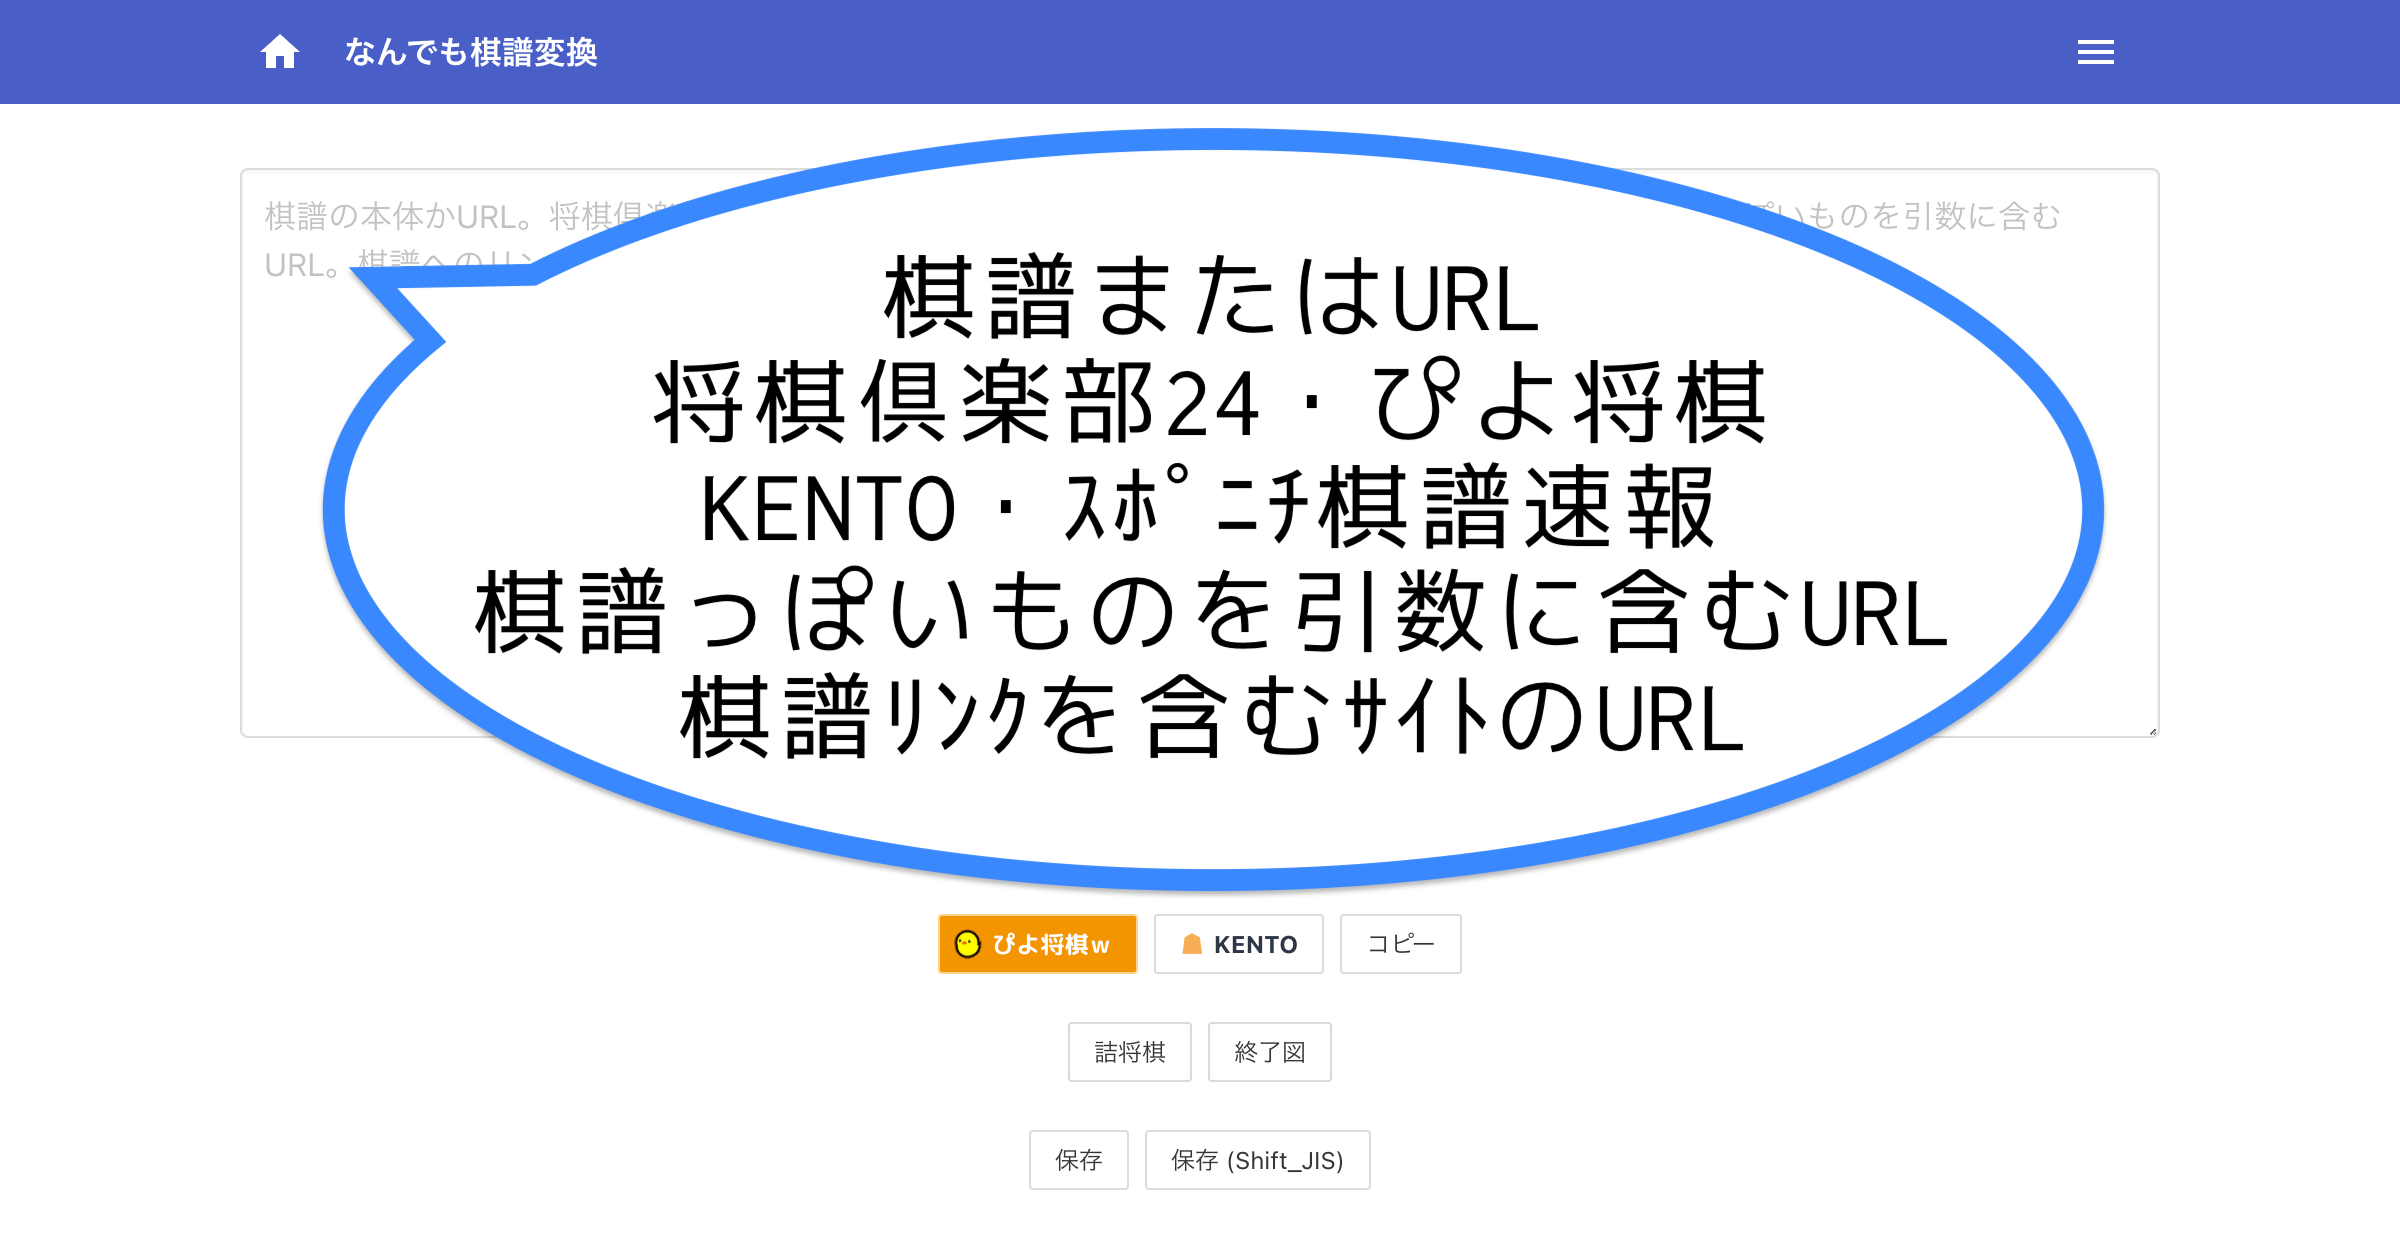
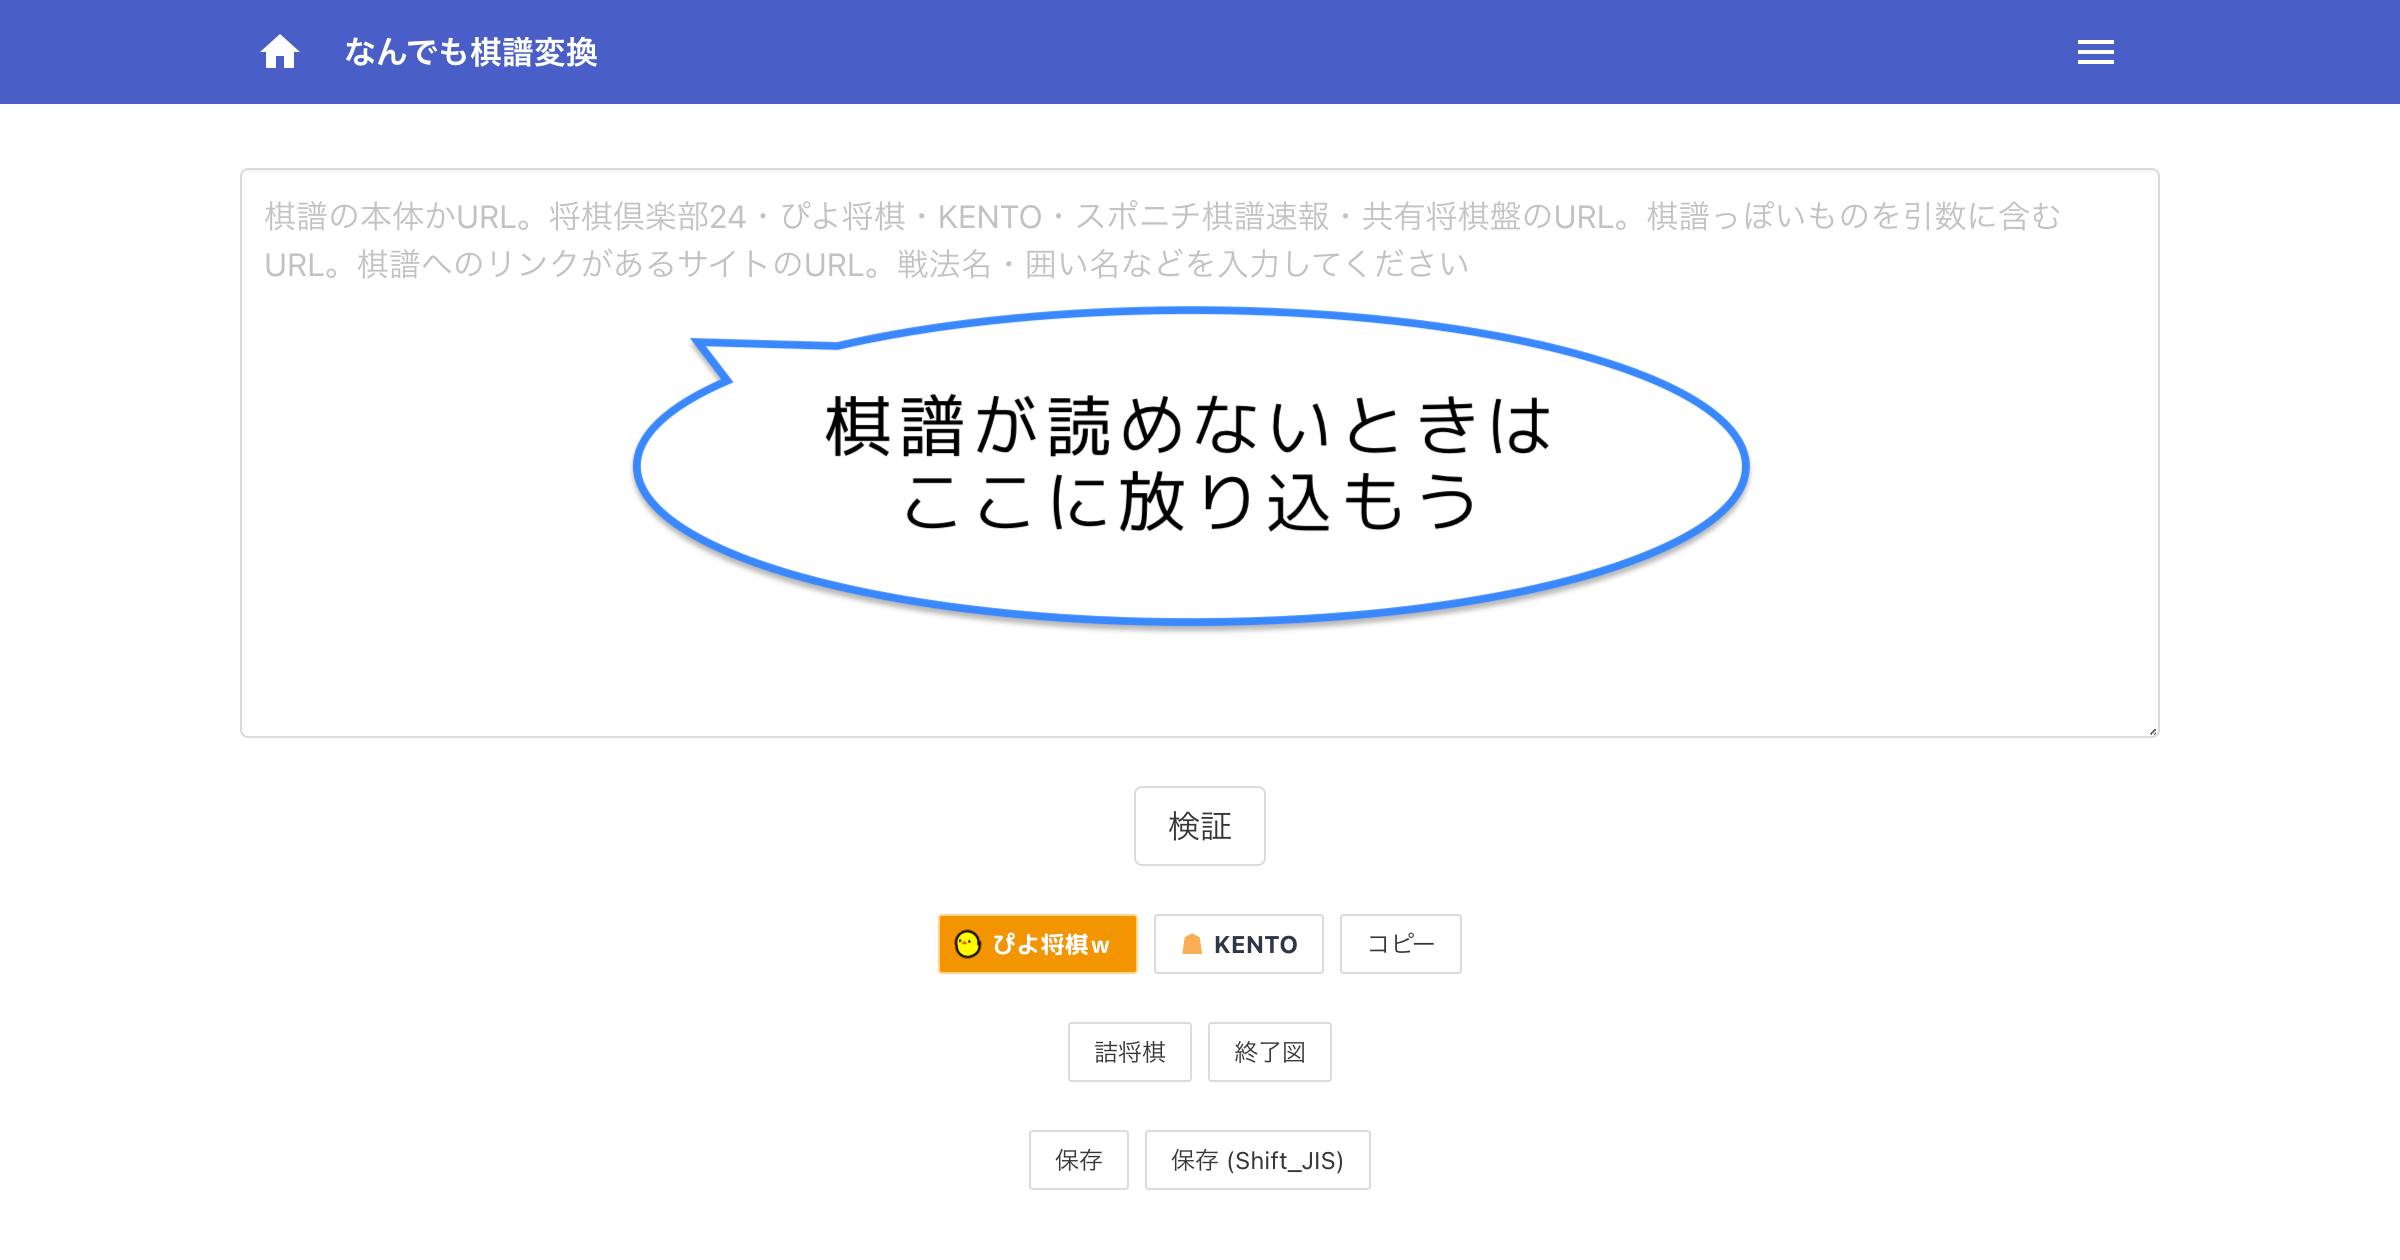
[feat] OGP更新

Changed region(s): [[0.125, 0.0929, 0.875, 0.7119], [0.125, 0.3095, 0.1562, 0.4952], [0.75, 0.1857, 0.8125, 0.2476]]

diff --git a/app/models/app_entry_info.rb b/app/models/app_entry_info.rb
@@ -54,7 +54,7 @@ class AppEntryInfo
       nuxt_link_to: { path: "/adapter" },
       title: "なんでも棋譜変換",
       og_image_key: "adapter",
-      description: "読めない棋譜を放り込もう",
+      description: "棋譜でお困りの方はどうぞ",
       features: [
         "変則的な将棋倶楽部24の棋譜を正規化",
         "将棋クエストのCSA形式をKIFに変換",
